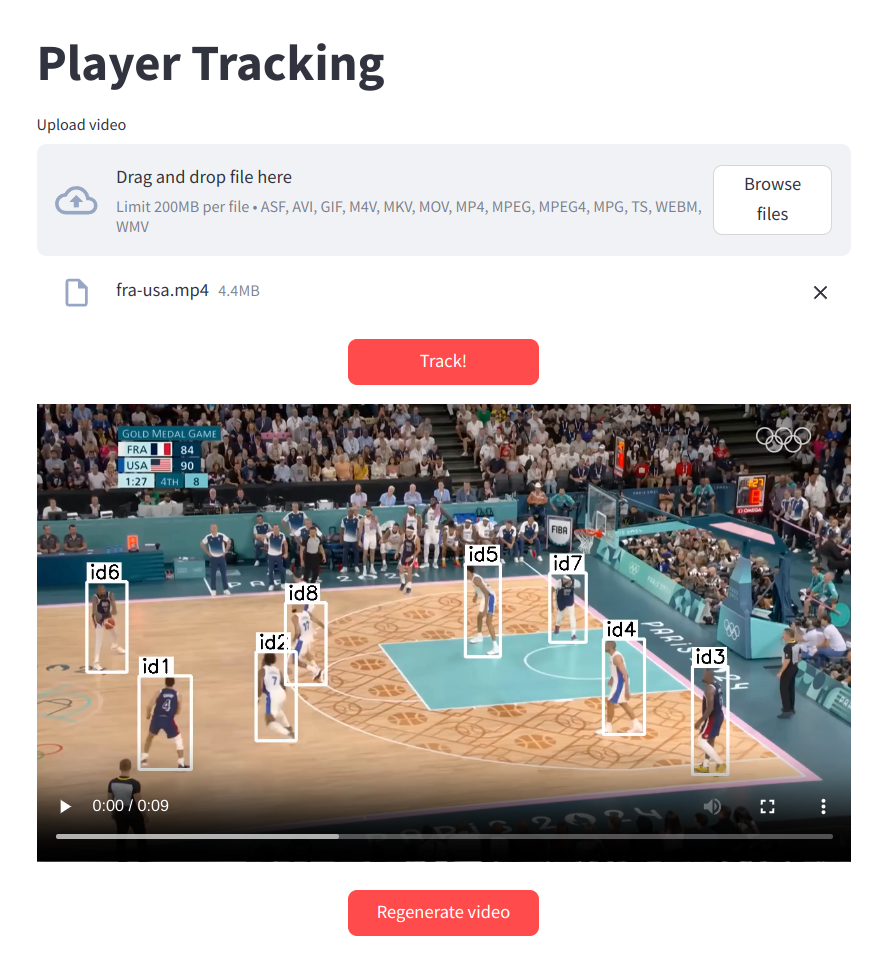
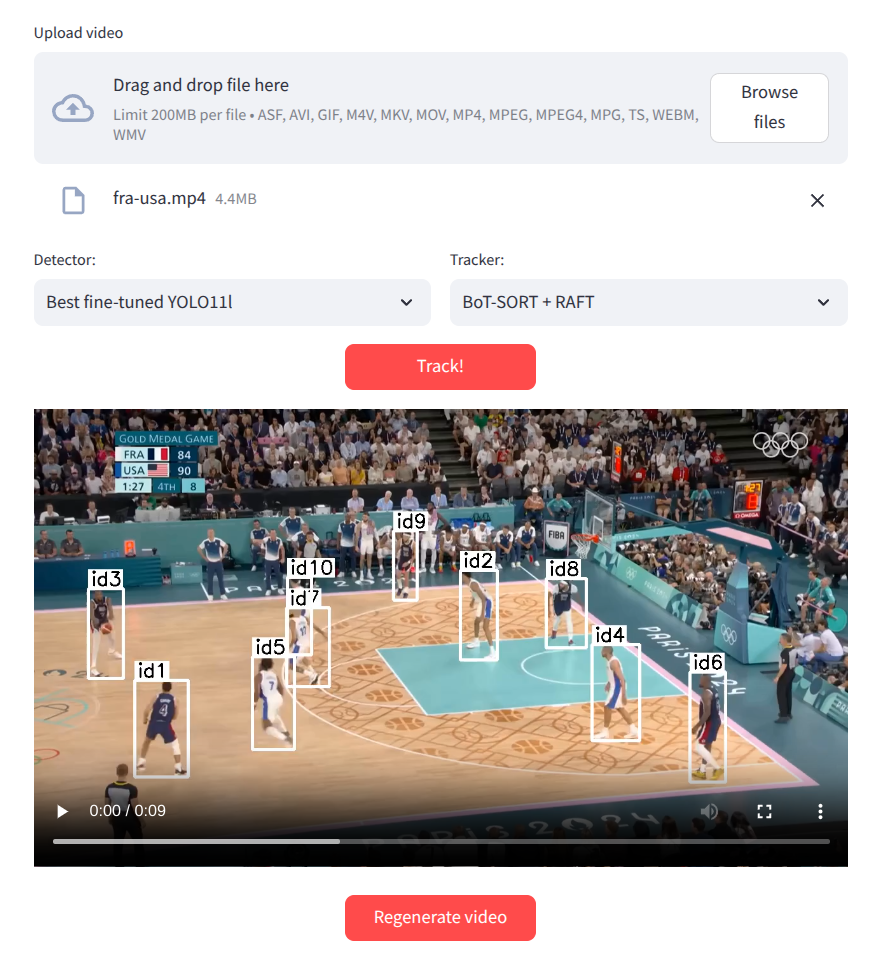
Update readmes

diff --git a/app/report.md b/app/report.md
@@ -8,9 +8,10 @@
     - `main.py` - код клиента
 - `server/` - сервер на FastAPI
     - `main.py` - код endpoint'ов сервера
+    - `tracking.py` - реализация непосредственно трекинга и список доступных моделей
     - `video.py` - функции, связанные с операциями над видео и картинками
     - `config/botsort.yaml` - конфигурация трекера BoT-SORT
-    - `models/baseline.pt` - веса baseline модели (дообученная YOLO)
+    - `models/` - веса доступных детекторов
 
 В каждой из папок также есть свой Dockerfile и файл `requirements.txt`.
 
@@ -30,9 +31,13 @@
 
 Инструкция для пользователя с описанием установки, интерфейса клиента и картинками описана в файле [README.md](../README.md). Далее в этом файле я буду скорее описывать внутреннюю работу сервера и его API.
 
+#### Получение списка доступных моделей
+
+Для получения списка доступных моделей при запуске клиент вызывает эндпоинт сервера `/get_models`, не принимающий на вход никаких параметров. Сервер возвращает список доступных детекторов и трекеров. У каждого есть короткое название, которое сам клиент потом использует в запросах к серверу (`slug`), и более красивое название, которое отображается в интерфейсе для пользователя (`ui_name`).
+
 #### Инференс
 
-Для инференса сервер предоставляет эндпоинт `/infer`, принимающий на вход видеофайл через `fastapi.UploadFile`. Он сохраняется в память и на нём производится трекинг средствами библиотеки `ultralytics`. Сервер сохраняет в память необходимые результаты (путь к загруженному видео на сервере, bbox'ы и id найденных игроков для каждого кадра), а также генерирует и отправляет клиенту следующую информацию:
+Для инференса с выбранным детектором и трекером сервер предоставляет эндпоинт `/infer?detector={detector}&tracker={tracker}`, принимающий на вход видеофайл через `fastapi.UploadFile`. Он сохраняется в память и на нём производится трекинг средствами библиотеки `ultralytics`. Сервер сохраняет в память необходимые результаты (путь к загруженному видео на сервере, bbox'ы и id найденных игроков для каждого кадра), а также генерирует и отправляет клиенту следующую информацию:
 
 1. список id найденных игроков,
 2. диапазоны времени, когда эти игроки были видны на видео,
